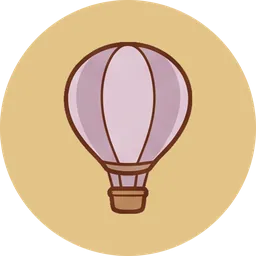
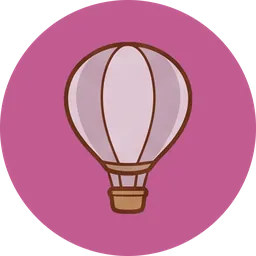
Issue 33: the two missing token illustrations
The magenta coin balloon and the cornucopia demand token, plus the receipt
rosette that shipped on a solid pink background. None needed drawing from
scratch - each was composed from art the project already had, by a new
parent-project tools/make_tokens.py:

- balloon_coins: the four balloon tokens are ONE painting over four flat
  discs, so two of them recover the balloon's own colour and alpha exactly
  (matting against two known backgrounds), re-composited over the magenta
  aerodrome.json specifies. The other two reconstruct from the matte to
  within 1.3/255, which is what proves it is the same painting.
- demand-wild: images/suit_wild.png is already a cornucopia in the locked
  style, laid out over the wild plum at the measured suit-token geometry.
- receipt: keyed to alpha. The rosette WAS repainted - its ink was dark
  green reaching pure black, against the locked warm-sepia rule.

demandTokenLayers drops its two-layer fallback: all six demands are now one
painted token.

diff --git a/packages/ui/src/view/art.test.ts b/packages/ui/src/view/art.test.ts
@@ -51,12 +51,9 @@ describe('art paths', () => {
     expect(cardArtZoom('V4')).toContain('/cards/zoom/v4.webp');
   });
 
-  it('composes the cornucopia demand from two layers, having no token art (ticket 33)', () => {
+  it('draws every demand, wild included, as one painted token (ticket 33)', () => {
     expect(demandTokenLayers('wheat')).toEqual([`${BASE}art/tokens/demand-wheat.webp`]);
-    expect(demandTokenLayers('wild')).toEqual([
-      `${BASE}art/tokens/demand-slot.webp`,
-      `${BASE}art/frame/suit_wild.webp`,
-    ]);
+    expect(demandTokenLayers('wild')).toEqual([`${BASE}art/tokens/demand-wild.webp`]);
   });
 
   it('has a distinct icon for the generic starting building and for a crop', () => {

diff --git a/packages/ui/src/view/art.ts b/packages/ui/src/view/art.ts
@@ -74,7 +74,9 @@ export function frame(layer: string): string {
  * change when the painted token lands: only this function.
  */
 export function demandTokenLayers(demand: Suit | 'wild'): string[] {
-  if (demand === 'wild') return [token('demand-slot'), frame('suit_wild')];
+  // The wild demand used to be composed from the cost bar's cornucopia over an
+  // empty crate slot, because no cornucopia token art existed. Ticket 33 built
+  // the real one, so all six demands are now one painted token.
   return [token(`demand-${demand}`)];
 }
 
